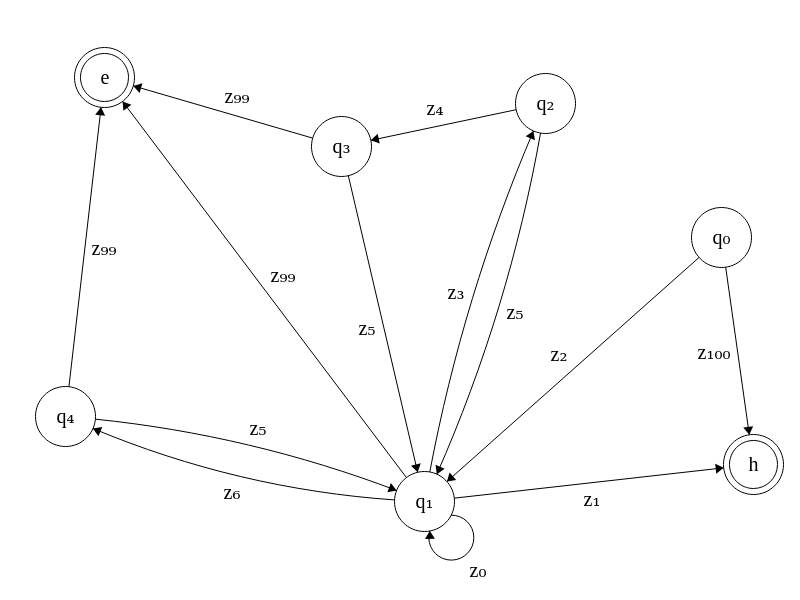
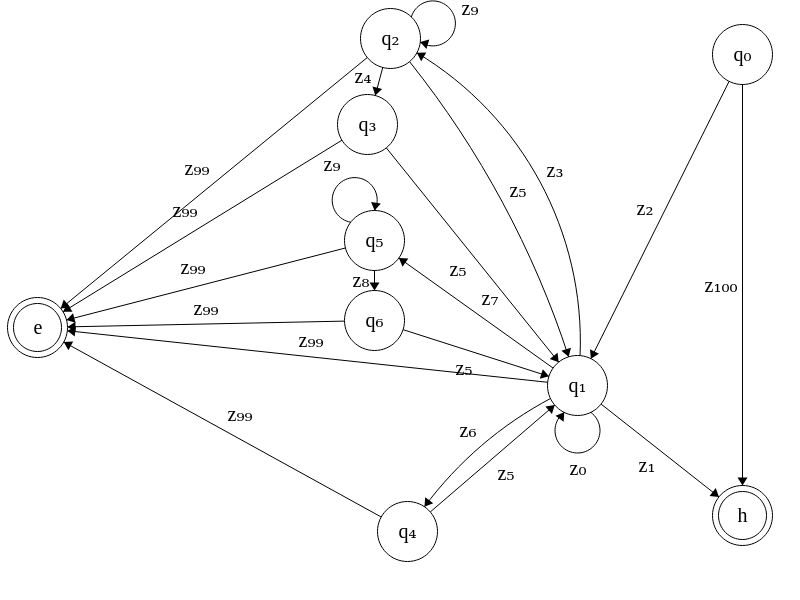
Update schema

diff --git a/README.md b/README.md
@@ -16,6 +16,8 @@ Written on Java with Polymorphism form (states == classes)
 * q<sub>2</sub> - enter sum to withdraw
 * q<sub>3</sub> - issuing cash
 * q<sub>4</sub> - output account cash
+* q<sub>5</sub> - enter cash to replenish
+* q<sub>6</sub> - replenish transaction
 
 #### Actions
 
@@ -26,6 +28,9 @@ Written on Java with Polymorphism form (states == classes)
 * z<sub>4</sub> - withdrawing cash
 * z<sub>5</sub> - returning to menu
 * z<sub>6</sub> - checking account
+* z<sub>7</sub> - choosing to replenish cash
+* z<sub>8</sub> - replenishing account
+* z<sub>9</sub> - enter sum again
 * z<sub>99</sub> - system error
 * z<sub>100</sub> - wrong PIN
 
